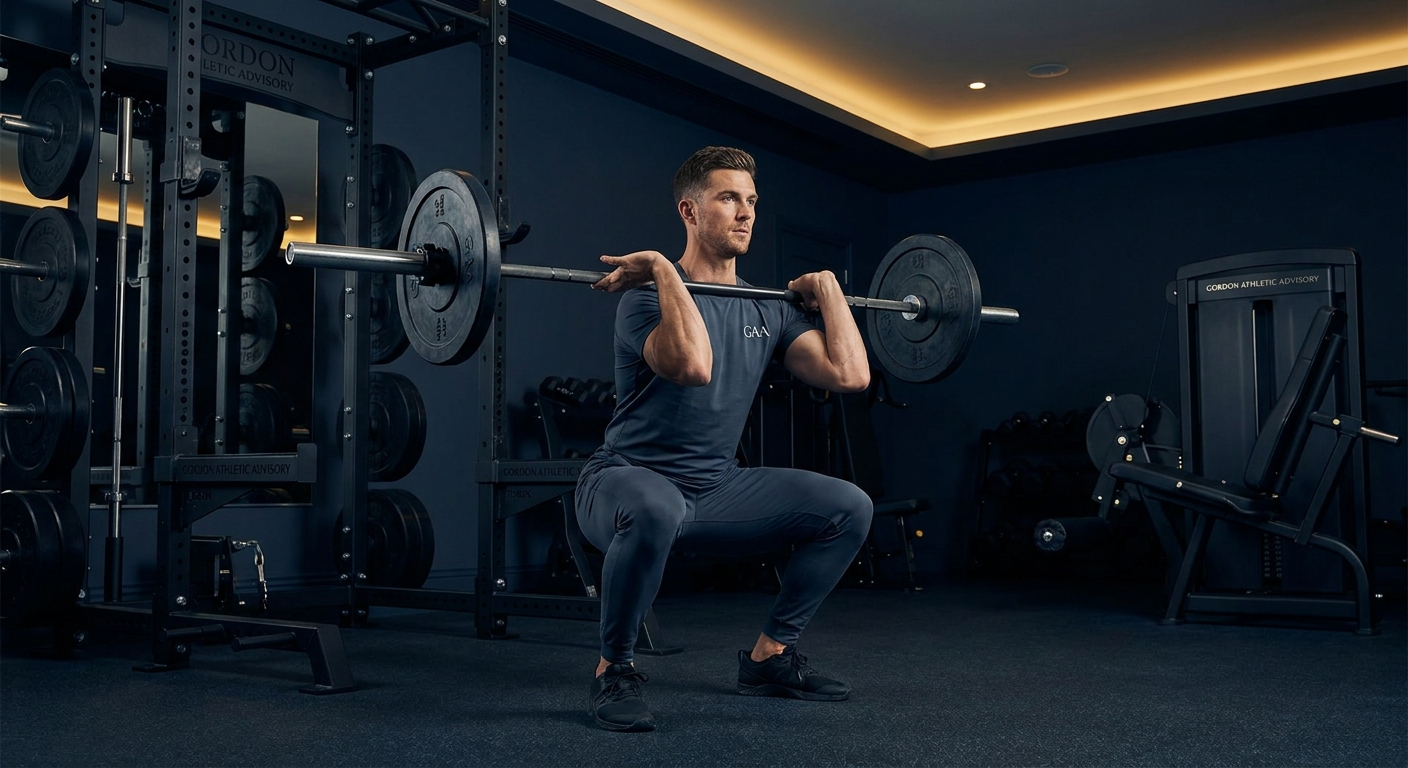
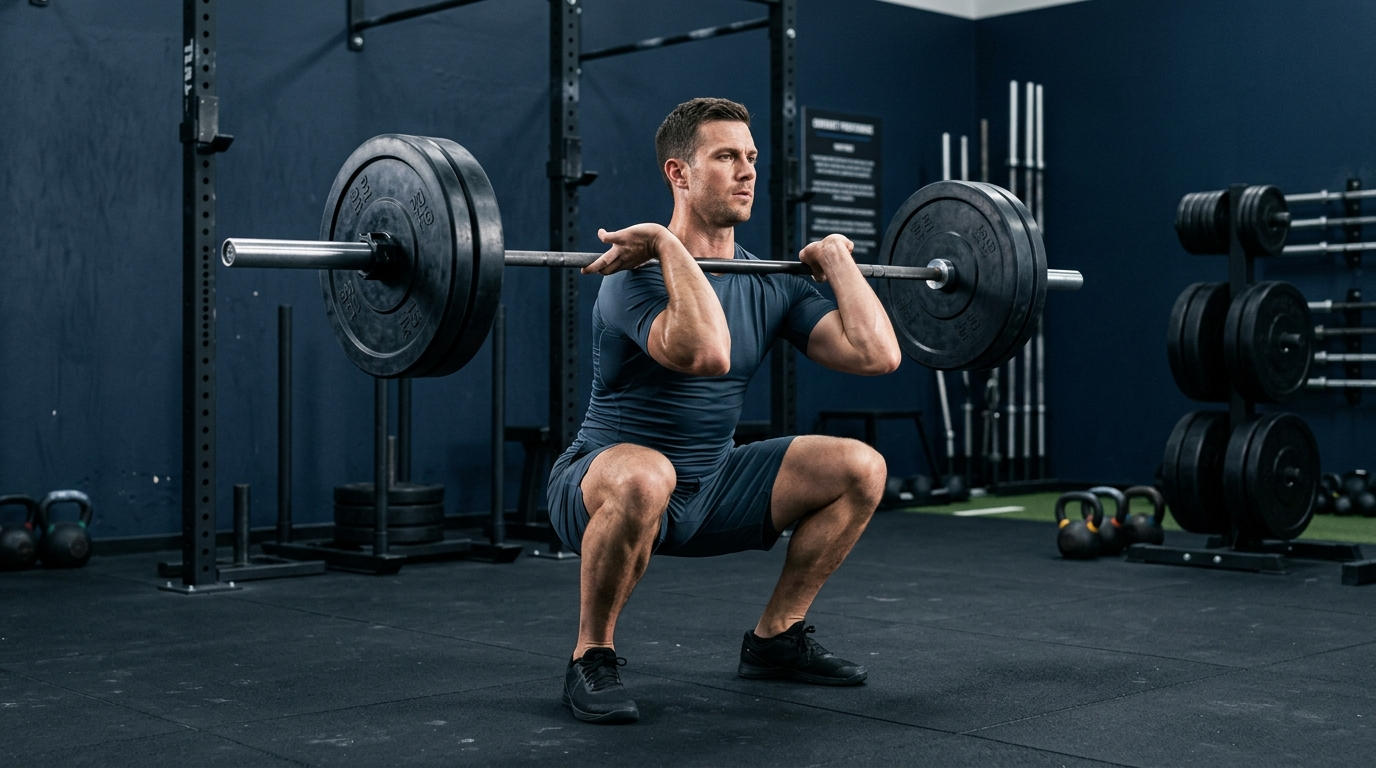
feat(exercise-media): roll out batch 4 re-styled Forge Athletic photography for front squats, incline press, curls, bird dog, and hip flexors

diff --git a/lib/nasm-generated-images.ts b/lib/nasm-generated-images.ts
@@ -67,12 +67,12 @@ export const VERIFIED_GAA_EXERCISE_IMAGES: Record<string, string> = {
   "activation ball prone wide row": "https://img.youtube.com/vi/qSqFFlidCXo/hqdefault.jpg",
   "barbell deadlift": "/images/exercises/barbell-deadlift.jpg",
   "single leg press": "https://img.youtube.com/vi/3aYsOsBA7ZE/hqdefault.jpg",
-  "barbell front squat with crossed arms": "https://img.youtube.com/vi/W9jJaI4cHJU/hqdefault.jpg",
+  "barbell front squat with crossed arms": "/images/exercises/barbell-front-squat-with-crossed-arms.jpg",
   "cable crossover": "https://img.youtube.com/vi/XY6JrX1wyxk/hqdefault.jpg",
   "dead bug": "https://img.youtube.com/vi/bxn9FBrt4-A/hqdefault.jpg",
   "leg circuit frontal": "https://img.youtube.com/vi/hV6ozNZJyWA/hqdefault.jpg",
   "face pull": "https://img.youtube.com/vi/eTCBSFlCJ_s/hqdefault.jpg",
-  "quadruped opposite arm leg raise": "https://img.youtube.com/vi/GJ34tTJyWz8/hqdefault.jpg",
+  "quadruped opposite arm leg raise": "/images/exercises/quadruped-opposite-arm-leg-raise.jpg",
   "how to foam roll adductors": "https://img.youtube.com/vi/Nqol0T6rKDg/hqdefault.jpg",
   "squat jump": "https://img.youtube.com/vi/tZSYZdtbONc/hqdefault.jpg",
   "single arm dumbbell chest press": "https://img.youtube.com/vi/qFTnmyC-nf4/hqdefault.jpg",
@@ -81,7 +81,7 @@ export const VERIFIED_GAA_EXERCISE_IMAGES: Record<string, string> = {
   "kettlebell jerk": "https://img.youtube.com/vi/9NFkYaviXgk/hqdefault.jpg",
   "lying leg curl two leg concentric single leg eccentric": "https://img.youtube.com/vi/_7sVQlruVZc/hqdefault.jpg",
   "seated machine row close grip": "https://img.youtube.com/vi/k0cTJCfxa0Y/hqdefault.jpg",
-  "two arm incline dumbbell chest press": "https://img.youtube.com/vi/JKnpHchOWPU/hqdefault.jpg",
+  "two arm incline dumbbell chest press": "/images/exercises/two-arm-incline-dumbbell-chest-press.jpg",
   "reverse crunch to knee up with rotation": "https://img.youtube.com/vi/wtKWBzDwfIM/hqdefault.jpg",
   "dumbbell preacher curl": "https://img.youtube.com/vi/t2BmBSmcjco/hqdefault.jpg",
   "reverse lunge to single arm row": "https://img.youtube.com/vi/erYh7wR3P2Y/hqdefault.jpg",
@@ -96,7 +96,7 @@ export const VERIFIED_GAA_EXERCISE_IMAGES: Record<string, string> = {
   "stability ball hamstring curl": "https://img.youtube.com/vi/Z3cY3d3BBo4/hqdefault.jpg",
   "ball hamstring curl": "https://img.youtube.com/vi/Z3cY3d3BBo4/hqdefault.jpg",
   "static latissimus dorsi ball stretch": "https://img.youtube.com/vi/kEH6jatSVSw/hqdefault.jpg",
-  "active kneeling hip flexor": "https://img.youtube.com/vi/OJ8qQQRxYz8/hqdefault.jpg",
+  "active kneeling hip flexor": "/images/exercises/active-kneeling-hip-flexor.jpg",
   "static butterfly stretch": "https://img.youtube.com/vi/v4OLkxi5-Q0/hqdefault.jpg",
   "activation medial hamstring": "https://img.youtube.com/vi/ksd36rrxgtE/hqdefault.jpg",
   "activation posterior tibialis": "https://img.youtube.com/vi/O1LxD0L9pR4/hqdefault.jpg",
@@ -123,7 +123,7 @@ export const VERIFIED_GAA_EXERCISE_IMAGES: Record<string, string> = {
   "dumbbell bent over extention": "https://img.youtube.com/vi/sTkMVkTwcSk/hqdefault.jpg",
   "dumbbell bench press": "https://img.youtube.com/vi/4_QuyfOCI5U/hqdefault.jpg",
   "dumbbell lateral raise": "/images/exercises/dumbbell-lateral-raise.jpg",
-  "dumbbell hammer curl": "https://img.youtube.com/vi/nL3SedGG7X0/hqdefault.jpg",
+  "dumbbell hammer curl": "/images/exercises/dumbbell-hammer-curl.jpg",
   "dumbbell overhead press": "/images/exercises/dumbbell-overhead-press.jpg",
   "bent over dumbbell rear fly": "https://img.youtube.com/vi/kLW7nbw4lcY/hqdefault.jpg",
   "reverse lunge": "https://img.youtube.com/vi/lKhZvT_NkOs/hqdefault.jpg",
@@ -197,7 +197,7 @@ export const VERIFIED_GAA_EXERCISE_IMAGES: Record<string, string> = {
   "dumbbell squat to overhead press": "https://img.youtube.com/vi/9k6IfkGBAVQ/hqdefault.jpg",
   "active standing adductor": "https://img.youtube.com/vi/1opPpdhFabY/hqdefault.jpg",
   "single leg single arm scaption": "https://img.youtube.com/vi/ikMg_3_jAWE/hqdefault.jpg",
-  "bird dog": "https://img.youtube.com/vi/ZdAHe9_HeEw/hqdefault.jpg",
+  "bird dog": "/images/exercises/bird-dog.jpg",
   "activation standing shoulder ext rotation": "https://img.youtube.com/vi/SPeinjTytxM/hqdefault.jpg",
   "reverse lunge to row": "https://img.youtube.com/vi/dcs7-vejMAY/hqdefault.jpg",
   "modified push up": "https://img.youtube.com/vi/PDr5B2jLUOw/hqdefault.jpg",
@@ -244,7 +244,7 @@ export const VERIFIED_GAA_EXERCISE_IMAGES: Record<string, string> = {
   "squat jump with stabilization frontal": "https://img.youtube.com/vi/6YK8WXP2gww/hqdefault.jpg",
   "static 3d standing tfl stretch": "https://img.youtube.com/vi/h_8VHKvi1zo/hqdefault.jpg",
   "static erector spinae stretch": "https://img.youtube.com/vi/04vmlwoDEgE/hqdefault.jpg",
-  "static kneeling hip flexor stretch": "https://img.youtube.com/vi/UU7Nqd_Dric/hqdefault.jpg",
+  "static kneeling hip flexor stretch": "/images/exercises/static-kneeling-hip-flexor-stretch.jpg",
   "static pectoral ball stretch": "https://img.youtube.com/vi/ujsKpEYYCSo/hqdefault.jpg",
   "self myofascial release smr tensor fascia latae": "https://img.youtube.com/vi/NfWjVK7agTM/hqdefault.jpg",
   "180 jump with stabilization": "https://img.youtube.com/vi/NadIhI_0u1w/hqdefault.jpg",
@@ -270,7 +270,7 @@ export const VERIFIED_GAA_EXERCISE_IMAGES: Record<string, string> = {
   "static posterior shoulder stretch": "https://img.youtube.com/vi/BnmRb-Egz14/hqdefault.jpg",
   "self myofascial release smr quadriceps": "https://img.youtube.com/vi/vUzmXO56jDI/hqdefault.jpg",
   "dumbbell push press": "https://img.youtube.com/vi/vuaYVK8xyqo/hqdefault.jpg",
-  "barbell front squat with clean position": "https://img.youtube.com/vi/yr_8VuSqhmM/hqdefault.jpg",
+  "barbell front squat with clean position": "/images/exercises/barbell-front-squat-with-clean-position.jpg",
   "barbell bent over row pronated": "https://img.youtube.com/vi/bm0_q9bR_HA/hqdefault.jpg",
   "kettlebell arm bar": "https://img.youtube.com/vi/WtqAD5-Re18/hqdefault.jpg",
   "plyometric push up": "https://img.youtube.com/vi/MH4gcTKQiEc/hqdefault.jpg",
@@ -284,7 +284,7 @@ export const VERIFIED_GAA_EXERCISE_IMAGES: Record<string, string> = {
   "single leg glute bridge": "https://img.youtube.com/vi/lHXShY-FivU/hqdefault.jpg",
   "side plank": "https://img.youtube.com/vi/ZpBJIRLGEgg/hqdefault.jpg",
   "straight arm plank": "https://img.youtube.com/vi/MDxfAuBbHHA/hqdefault.jpg",
-  "incline dumbbell bench press": "https://img.youtube.com/vi/_NrQUYg7Nlc/hqdefault.jpg",
+  "incline dumbbell bench press": "/images/exercises/incline-dumbbell-bench-press.jpg",
   "single arm kettlebell swing": "https://img.youtube.com/vi/r777bo9KuY4/hqdefault.jpg",
   "squat to single arm row": "https://img.youtube.com/vi/dSf1abuGONU/hqdefault.jpg",
   "single leg throw and catch frontal": "https://img.youtube.com/vi/TLgyE-Flcws/hqdefault.jpg",

diff --git a/lib/clinical-kinetic-warmup.test.ts b/lib/clinical-kinetic-warmup.test.ts
@@ -39,7 +39,7 @@ describe('Clinical Kinetic Warmup & OHSA Integration', () => {
     expect(resolveGaaExerciseImage('SMR Adductors (Inner Thigh)')).toBe('https://img.youtube.com/vi/Nqol0T6rKDg/hqdefault.jpg')
 
     // Warmup Lengthen (Static Stretches)
-    expect(resolveGaaExerciseImage('Kneeling Hip Flexor & Latissimus Stretch')).toBe('https://img.youtube.com/vi/UU7Nqd_Dric/hqdefault.jpg')
+    expect(resolveGaaExerciseImage('Kneeling Hip Flexor & Latissimus Stretch')).toBe('/images/exercises/static-kneeling-hip-flexor-stretch.jpg')
     expect(resolveGaaExerciseImage('Static Calf Stretch (Gastrocnemius / Soleus)')).toBe('https://img.youtube.com/vi/83G00Fwlqqw/hqdefault.jpg')
     expect(resolveGaaExerciseImage('Static Standing Hamstring Stretch (Neutral Rotation)')).toBe('https://img.youtube.com/vi/h_yZV27H684/hqdefault.jpg')
     expect(resolveGaaExerciseImage('Static Standing TFL / ITB Stretch')).toBe('https://img.youtube.com/vi/h_8VHKvi1zo/hqdefault.jpg')
